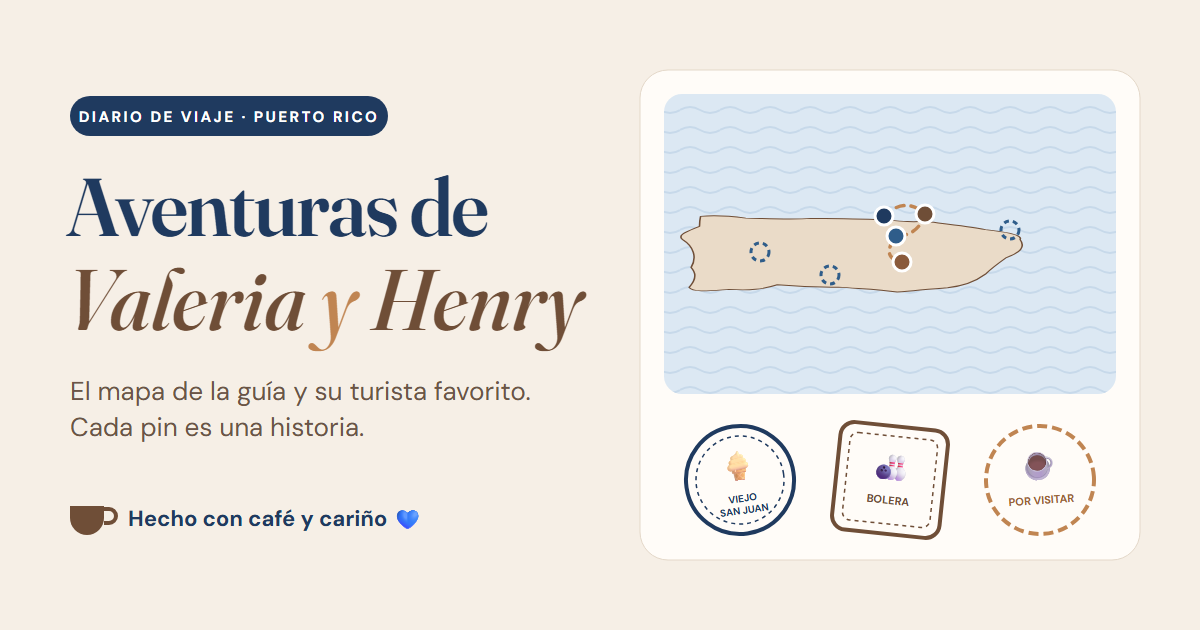
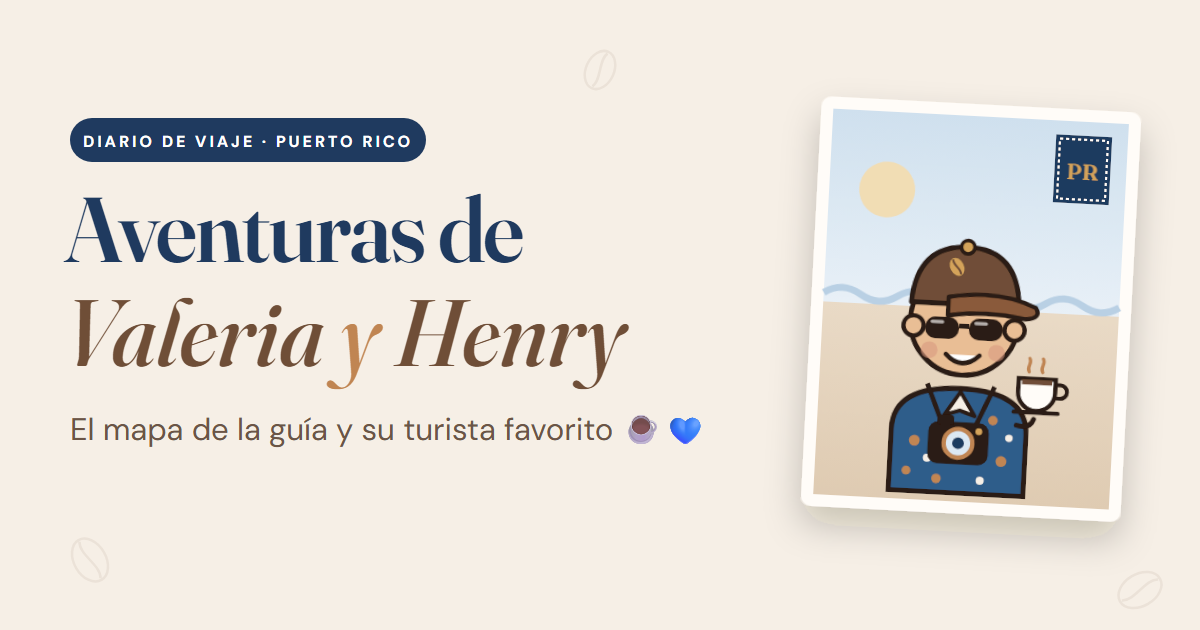
Nueva imagen de vista previa con el turista y su cafecito (og.png?v=2, sin og.jpg), guía actualizada para añadir lugares, títulos, frases y cápsulas desde el celular, y caché vh-v8

Changed region(s): [[0.0617, 0.1508, 0.9558, 0.9048], [0.0617, 0.7841, 0.37, 0.8444], [0.4625, 0.6032, 0.4933, 0.6333]]

diff --git a/sw.js b/sw.js
@@ -1,6 +1,6 @@
 // Service worker sencillo: permite instalar la página y abrirla aunque no haya señal.
 // Si cambias algo y no se actualiza en el celular, sube el número de VERSION.
-const VERSION = "vh-v7";
+const VERSION = "vh-v8";
 const ARCHIVOS = ["./", "index.html", "manifest.json", "icon.svg", "icon-192.png", "icon-512.png"];
 
 self.addEventListener("install", e => {

diff --git a/GUIA.md b/GUIA.md
@@ -1,58 +1,109 @@
 # Guía de la página "Aventuras de Valeria y Henry"
 
-## 1. Dónde están los datos
+Todo se cambia en un solo archivo: `index.html`. Los datos están arriba del todo, dentro de `CONFIG` y `AVENTURAS`.
+Si dejas algo vacío (`""`), esa parte simplemente no sale.
 
-Todo está al principio del `<script>` de `index.html`, en `CONFIG` y en `AVENTURAS`.
+## 1. Editar desde el celular (GitHub)
+
+1. Abre github.com en el navegador (no hace falta la app) y entra con tu cuenta.
+2. Ve al repositorio `aventuras-de-valeria-y-henry` y toca `index.html`.
+3. Toca el lápiz ✏ (arriba a la derecha) para editar.
+4. Haz el cambio (los pasos de abajo dicen dónde).
+5. Toca **Commit changes** → **Commit changes**.
+6. Abre `sw.js`, toca el lápiz y sube el número de `VERSION` (por ejemplo `vh-v8` → `vh-v9`). Guarda igual. Así los celulares ven el cambio.
+7. En 1 o 2 minutos se ve en la página.
+
+> Consejo: para encontrar algo dentro del archivo, en la computadora usa Ctrl+F; en el celular, el menú del navegador → "Buscar en la página".
+
+## 2. Añadir un lugar nuevo
+
+Busca `PLANTILLA PARA AÑADIR UNO`. Copia la línea de la plantilla y pégala dentro de `AVENTURAS`, **al final, justo antes de la línea `];`**:
+
+```js
+{ nombre: "", emoji: "", lugar: "", fecha: "AAAA-MM-DD", lat: null, lon: null, tipos: [], texto: "", nota: null },
+```
+
+Ejemplo lleno:
+
+```js
+{ nombre: "Café en Jayuya", emoji: "☕", lugar: "Jayuya", fecha: "2026-11-02", lat: 18.2186, lon: -66.5916, tipos: ["cafe"], texto: "Café recién tostado en la montaña.", nota: 9 },
+```
+
+- **tipos** (para los filtros del mapa): `"cafe"`, `"comida"`, `"playa"`, `"diversion"`, `"paseo"`, `"especial"`. Puede tener varios: `["cafe", "especial"]`.
+- **nota**: la nota de la guía sobre 10 (se convierte sola en tacitas: 9 = 4 tacitas y media). Si no hay nota, deja `null`.
+- Si es un sitio de smash burgers, añade `smash: true` (entra en el ranking si tiene nota).
+- Si no tiene coordenadas, deja `lat: null, lon: null`: sale en la línea de tiempo y el pasaporte, pero sin pin.
+- El id, el color, el giro del sello y la zona del mapa se ponen solos.
+- Ojo con las comillas: el texto va entre `"..."`. Si el texto lleva comillas dobles, escribe `\"` o usa comillas simples por fuera.
+
+## 3. Sacar las coordenadas en Google Maps
+
+- **Celular:** abre Google Maps, busca el sitio y **mantén el dedo** sobre el punto exacto. Sale un pin y arriba, en el buscador, dos números (ej. `18.4224, -66.0716`). Toca para copiarlos.
+- **Computadora:** haz clic derecho sobre el sitio; el primer renglón del menú son los números. Haz clic para copiarlos.
+- El primer número es `lat` y el segundo es `lon` (el segundo siempre empieza con `-66` o `-67` en Puerto Rico).
+
+## 4. Ponerle título a un día nuevo
+
+Busca `TITULOS_DIAS` y añade una línea con la fecha y el título:
+
+```js
+"2026-11-02": "Cafecito en la montaña",
+```
+
+Los lugares con la misma fecha salen juntos como un día ("Día 11 · 2 de noviembre — Cafecito en la montaña").
+
+## 5. Pasar un deseo a visitado
+
+1. En `DESEOS`, busca el lugar (ej. Rincón) y **borra su línea**.
+2. Añádelo como lugar nuevo en `AVENTURAS` (paso 2), copiando su emoji, nombre, `lat` y `lon`, y poniéndole la fecha y la historia.
+
+## 6. Añadir una frase célebre
+
+Busca `FRASES` y añade una línea:
+
+```js
+{ texto: "Lo que dijo", quien: "La guía", donde: "en Caguas" },
+```
+
+Con 1 o 2 frases se ven fijas; con 3 o más se convierten solas en carrusel.
+
+## 7. Escribir una cápsula del tiempo
+
+Busca `CAPSULAS`. Cada una tiene su fecha; escribe la carta dentro de `carta: "..."`. Para bajar de línea usa `\n`:
+
+```js
+{ titulo: "San Valentín", emoji: "💙", fecha: "2027-02-14", carta: "Valeria:\nFeliz San Valentín..." },
+```
+
+- Una cápsula con la carta vacía no se muestra (si todas están vacías, la sección no aparece).
+- Antes de su fecha sale con candado y "Faltan X días"; desde ese día (hora de Puerto Rico) se puede leer.
+- Ojo: la carta va dentro del código de la página, así que alguien que sepa ver el código podría leerla antes.
+
+## 8. Otros datos de `CONFIG`
 
 | Campo | Qué es |
 |---|---|
-| `fechaInicio` | El día en que empezaron (AAAA-MM-DD). Sirve para "Día X de aventuras" |
-| `cumpleValeria`, `aniversario` | Mes-día (MM-DD). Ese día sale confeti y un mensaje |
-| `mensajeCumple`, `mensajeAniversario` | El mensaje de esos días |
+| `fechaInicio` | El día en que empezaron (AAAA-MM-DD): "Día X de aventuras", mensaje de cada mes y logros de tiempo |
+| `cumpleValeria`, `cumpleHenry`, `aniversario` | Mes-día (MM-DD). Ese día sale confeti y un mensaje |
 | `cancion` | Enlace de Spotify (Compartir → Copiar enlace). Mientras diga `CAMBIAR`, el botón no aparece |
-| `nombreGuia`, `cafeFavorito`, `datoBonito` | Su perfil (`datoBonito` vacío = no sale) |
-| `cartaSecreta` | La carta que sale al tocar al turista 10 veces (`\n` = bajar de línea) |
-| `DESEOS` | Lugares por visitar |
-| `CAFES` | Cafeterías probadas: nombre, lugar, qué pidió cada uno, `tacitas` o `nota` |
-| `RANKING_SMASH`, `notaRanking` | El ranking de smash de la guía (se ordena solo por nota) |
-| `AVENTURAS` | Los lugares (ver abajo) |
+| `cafeFavorito`, `datoBonito` | El perfil de la guía |
+| `cartaSecreta` | La carta que sale al tocar al turista 10 veces |
+| `CAFES` | El pasaporte cafetero |
+| `PLANES` | Ideas para la ruleta "¿Qué hacemos hoy?" (también usa la lista de deseos) |
 
-Si dejas algo vacío (`""` o `0`), esa parte simplemente no sale.
+Para las frases que dice el turista al tocarlo, busca `const FRASES = [` (más abajo, en la parte del turista) y añade una línea entre comillas.
 
-## 2. Añadir un lugar
+## 9. Probar fechas sin esperar
 
-Cada bloque de `AVENTURAS` es un **lugar** con su pin. Los lugares con la **misma fecha** forman una salida (un "Día" en la línea de tiempo).
+Añade al final del enlace:
+- `?hoy=2026-11-08` hace que la página crea que hoy es ese día (mensaje del mes, "Un día como hoy", cápsulas, logros).
+- `?probar=cumple`, `?probar=cumpleHenry`, `?probar=aniversario` o `?probar=mes` muestran ese mensaje especial.
 
-```js
-{
-  id: "nombre-corto", emoji: "☕", nombre: "Nombre del sitio", lugar: "Pueblo",
-  lat: 18.4224, lon: -66.0716, zona: "sj", fecha: "2026-10-25", nota: 8,
-  texto: "Lo que pasó.",
-  versionGuia: "",
-},
-```
+## 10. Compartir una aventura
 
-- `id`: corto, sin espacios ni acentos, que no se repita.
-- `lat`/`lon`: en Google Maps toca el sitio y copia los dos números.
-- `zona`: `"sj"` (área de San Juan), `"caguas"` o bórralo si es en otro sitio.
-- `tacitas` (1 a 5, acepta medios como `3.5`) o `nota` (de la guía, sobre 10; 7 = 3.5 tacitas).
-- `versionGuia`: cómo lo cuenta Valeria; si está vacío no sale el botón.
-- `smash: true` si es un sitio de smash burgers.
-- `secreto: true` para que no salga en el mapa ("ubicación clasificada").
+Cada aventura tiene **Compartir**: en el celular abre el menú de compartir; en la computadora copia el link. El link lleva directo a esa aventura (termina en `#nombre`, por ejemplo `#pergamino`).
 
-**Cuando visiten un lugar de la lista de deseos:** bórrenlo de `DESEOS` y creen un bloque nuevo en `AVENTURAS`.
-
-**Para probar las fechas especiales sin esperar:** abre la página con `?probar=cumple` o `?probar=aniversario` al final del enlace.
-
-## 3. Cómo editar desde el celular o la computadora
-
-1. Entra a github.com → repositorio `aventuras-de-valeria-y-henry`.
-2. Toca `index.html` → el lápiz ✏ (Edit).
-3. Cambia lo que quieras → **Commit changes** → **Commit changes**.
-4. Abre `sw.js` y sube el número de `VERSION` (por ejemplo de `vh-v6` a `vh-v7`) para que los celulares vean el cambio.
-5. En 1 o 2 minutos se ve en la página.
-
-## 4. Dominio propio (ej. valeriayhenry.com)
+## 11. Dominio propio (ej. valeriayhenry.com)
 
 Cuesta unos $10–15 al año (no es gratis).
 
@@ -60,11 +111,11 @@ Cuesta unos $10–15 al año (no es gratis).
 2. En el panel de DNS del dominio crea:
    - 4 registros **A** con nombre `@` → `185.199.108.153`, `185.199.109.153`, `185.199.110.153`, `185.199.111.153`
    - 1 registro **CNAME** con nombre `www` → `henryaliceahe-glitch.github.io`
-3. En GitHub → repositorio → **Settings → Pages → Custom domain** → escribe `valeriayhenry.com` → **Save**. (GitHub crea un archivo `CNAME`.)
+3. En GitHub → repositorio → **Settings → Pages → Custom domain** → escribe `valeriayhenry.com` → **Save**.
 4. Espera (de minutos a 24 h) y marca **Enforce HTTPS**.
-5. En `index.html` cambia las 2 direcciones de `og:url` y `og:image` al dominio nuevo.
+5. En `index.html` cambia las direcciones de `og:url`, `og:image` y `twitter:image` al dominio nuevo.
 
-## 5. Instalarla en el celular
+## 12. Instalarla en el celular
 
 - **iPhone (Safari):** botón Compartir → **Agregar a pantalla de inicio**.
 - **Android (Chrome):** menú ⋮ → **Instalar app** (o "Agregar a la pantalla principal").
@@ -73,5 +124,6 @@ Cuesta unos $10–15 al año (no es gratis).
 
 - `index.html` — la página
 - `manifest.json`, `sw.js` — para instalarla como app
-- `icon.svg`, `icon-*.png` — íconos (azul y café)
-- `og.svg` — imagen de vista previa (editable); `og.png` — la misma, lista para WhatsApp
+- `icon.svg`, `icon-*.png` — íconos
+- `og.svg` — imagen de vista previa (editable); `og.png` — la misma, lista para WhatsApp. Si la cambias, sube el `?v=2` de `og:image` y `twitter:image` a `?v=3` para que WhatsApp no use la vieja.
+- La página tiene `noindex`: no aparece en Google.
